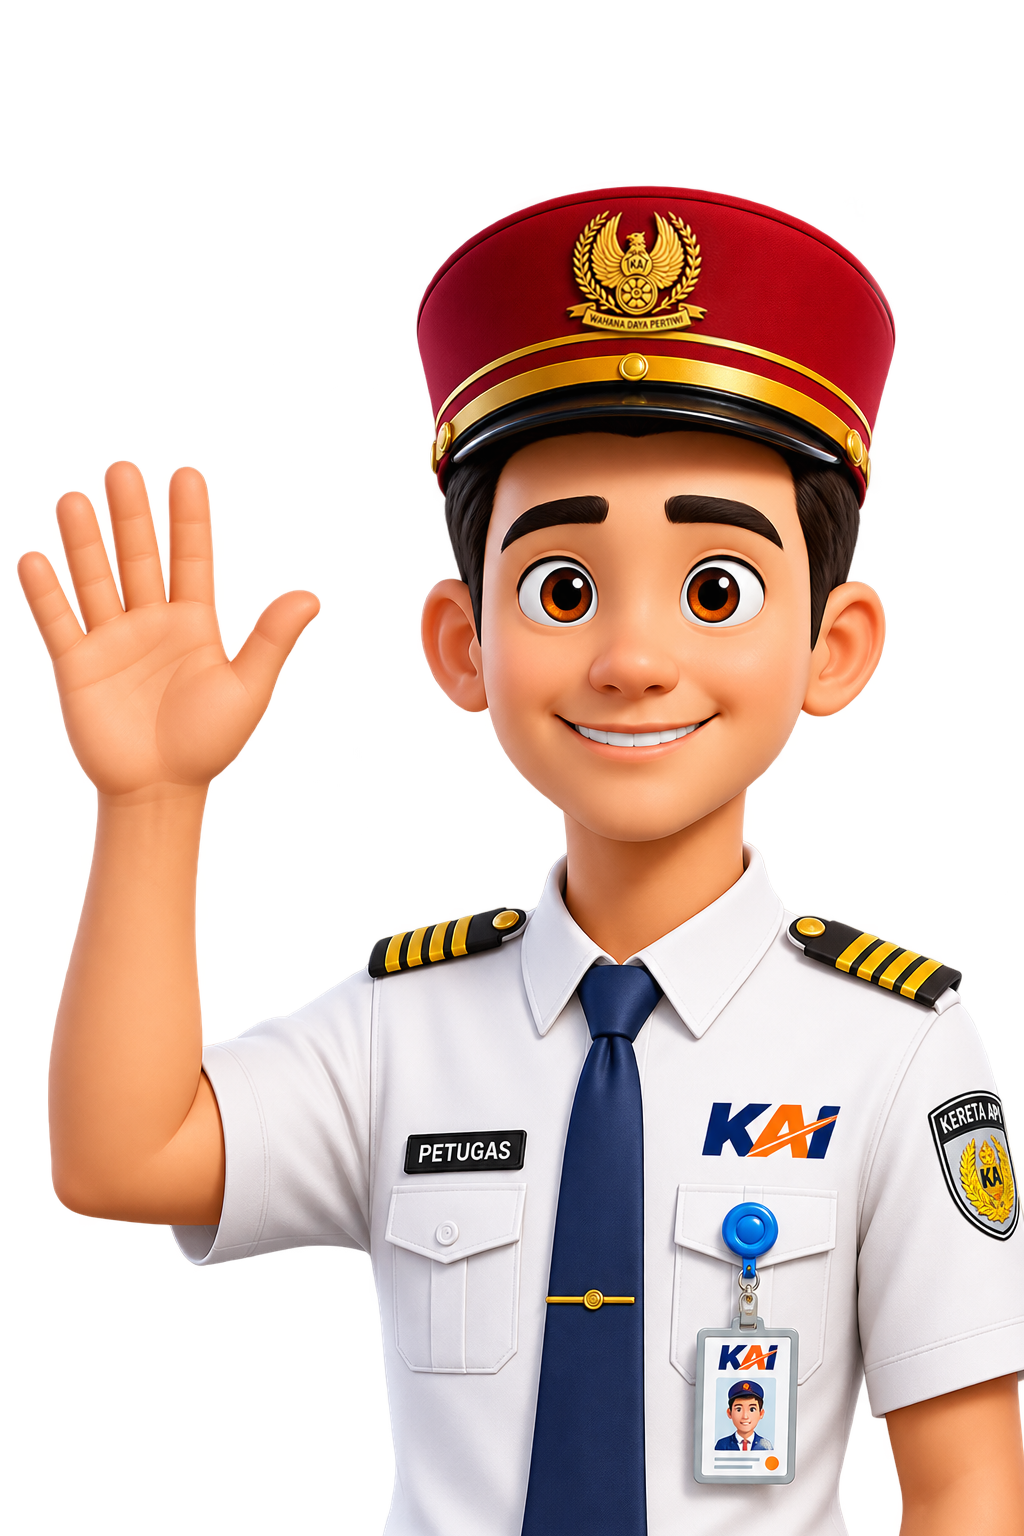
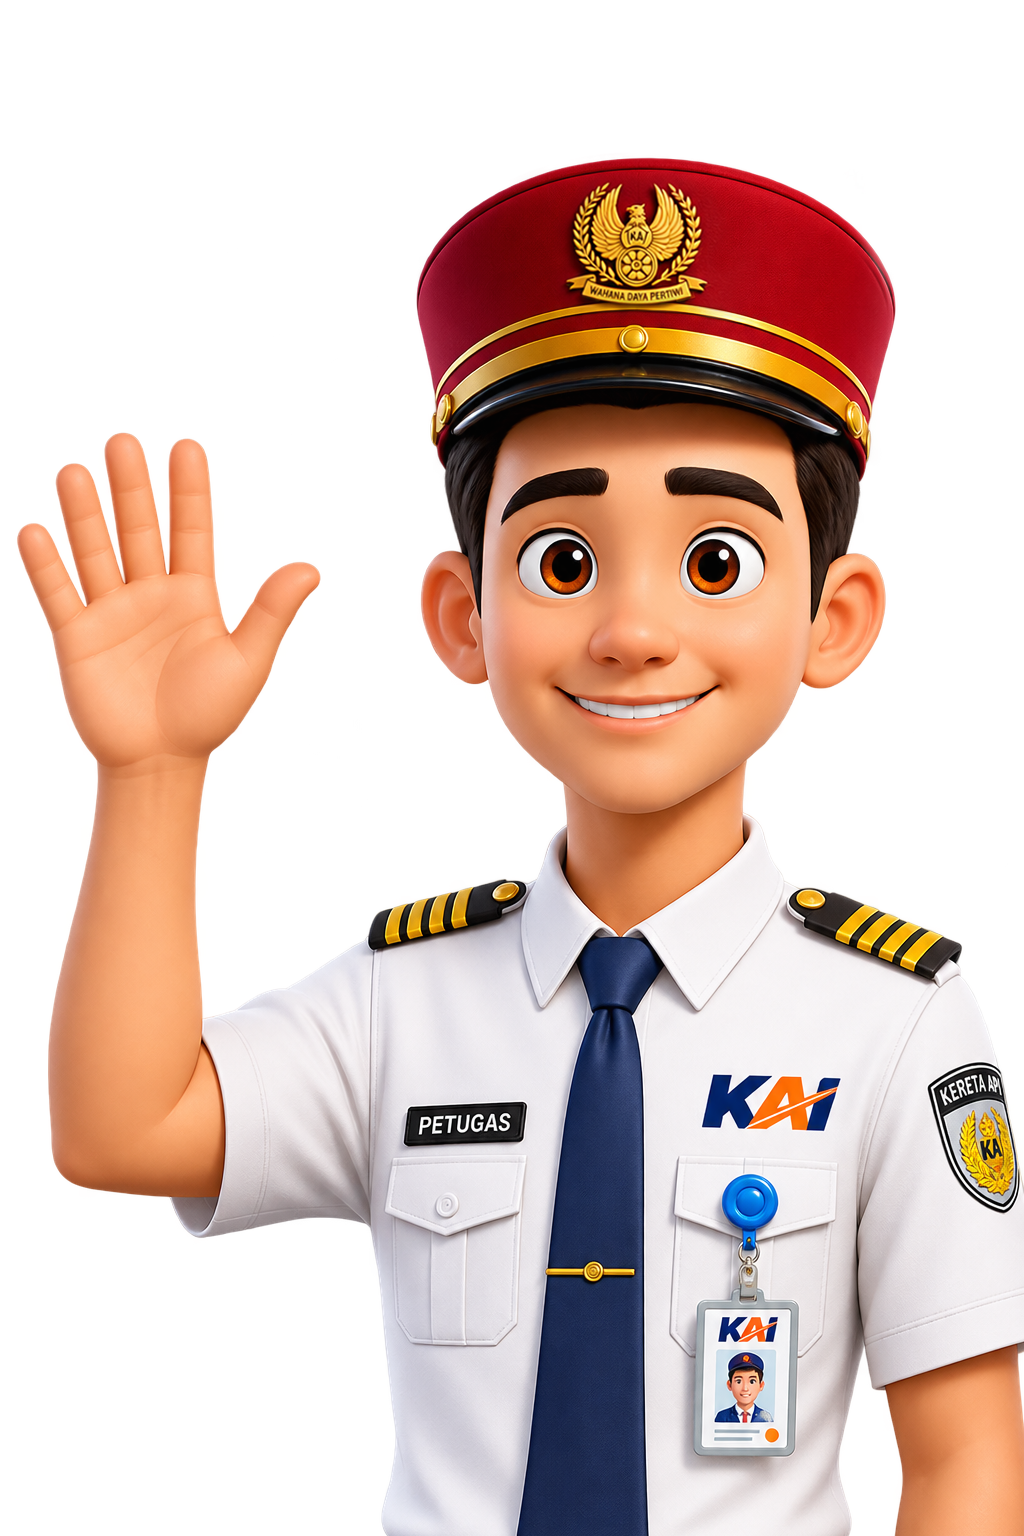
up

diff --git a/index.html b/index.html
@@ -126,11 +126,13 @@
       <div id="dashboardView">
 
         <!-- ===== Banner Sambutan (di atas daftar menu / kartu IMO) ===== -->
-        <div class="relative overflow-hidden rounded-3xl bg-gradient-to-br from-[#4a47b5] via-[#5B58CA] to-purple-600 mb-6 shadow-lg shadow-indigo-200/60">
-          <!-- Dekorasi lingkaran -->
-          <div class="absolute -top-10 -right-10 w-56 h-56 bg-white/10 rounded-full"></div>
-          <div class="absolute -bottom-16 right-24 w-40 h-40 bg-white/10 rounded-full"></div>
-          <div class="absolute top-8 right-40 w-6 h-6 bg-white/20 rounded-full hidden md:block"></div>
+        <div class="relative mb-6 mt-6 sm:mt-8">
+          <!-- Lapisan background (rounded + clip lingkaran dekorasi, TIDAK meng-clip karakter) -->
+          <div class="absolute inset-0 rounded-3xl bg-gradient-to-br from-[#4a47b5] via-[#5B58CA] to-purple-600 shadow-lg shadow-indigo-200/60 overflow-hidden">
+            <div class="absolute -top-10 -right-10 w-56 h-56 bg-white/10 rounded-full"></div>
+            <div class="absolute -bottom-16 right-24 w-40 h-40 bg-white/10 rounded-full"></div>
+            <div class="absolute top-8 right-40 w-6 h-6 bg-white/20 rounded-full hidden md:block"></div>
+          </div>
 
           <div class="relative flex items-stretch min-h-[180px] sm:min-h-[200px]">
             <!-- Teks Sambutan -->
@@ -147,12 +149,12 @@
               </p>
             </div>
 
-            <!-- Karakter Petugas -->
-            <div class="absolute right-2 sm:right-6 md:right-10 bottom-0 flex items-end pointer-events-none">
+            <!-- Karakter Petugas (sengaja melebihi tepi atas banner, tidak ikut ke-clip) -->
+            <div class="absolute right-2 sm:right-6 md:right-10 bottom-0 -top-8 sm:-top-10 flex items-end pointer-events-none">
               <img
                 src="assets/img/petugas-imo.png"
                 alt="Petugas KAI menyambut Anda"
-                class="h-[190px] sm:h-[220px] md:h-[240px] w-auto object-contain drop-shadow-2xl select-none"
+                class="h-[220px] sm:h-[250px] md:h-[270px] w-auto object-contain drop-shadow-2xl select-none"
                 draggable="false"
               />
             </div>
